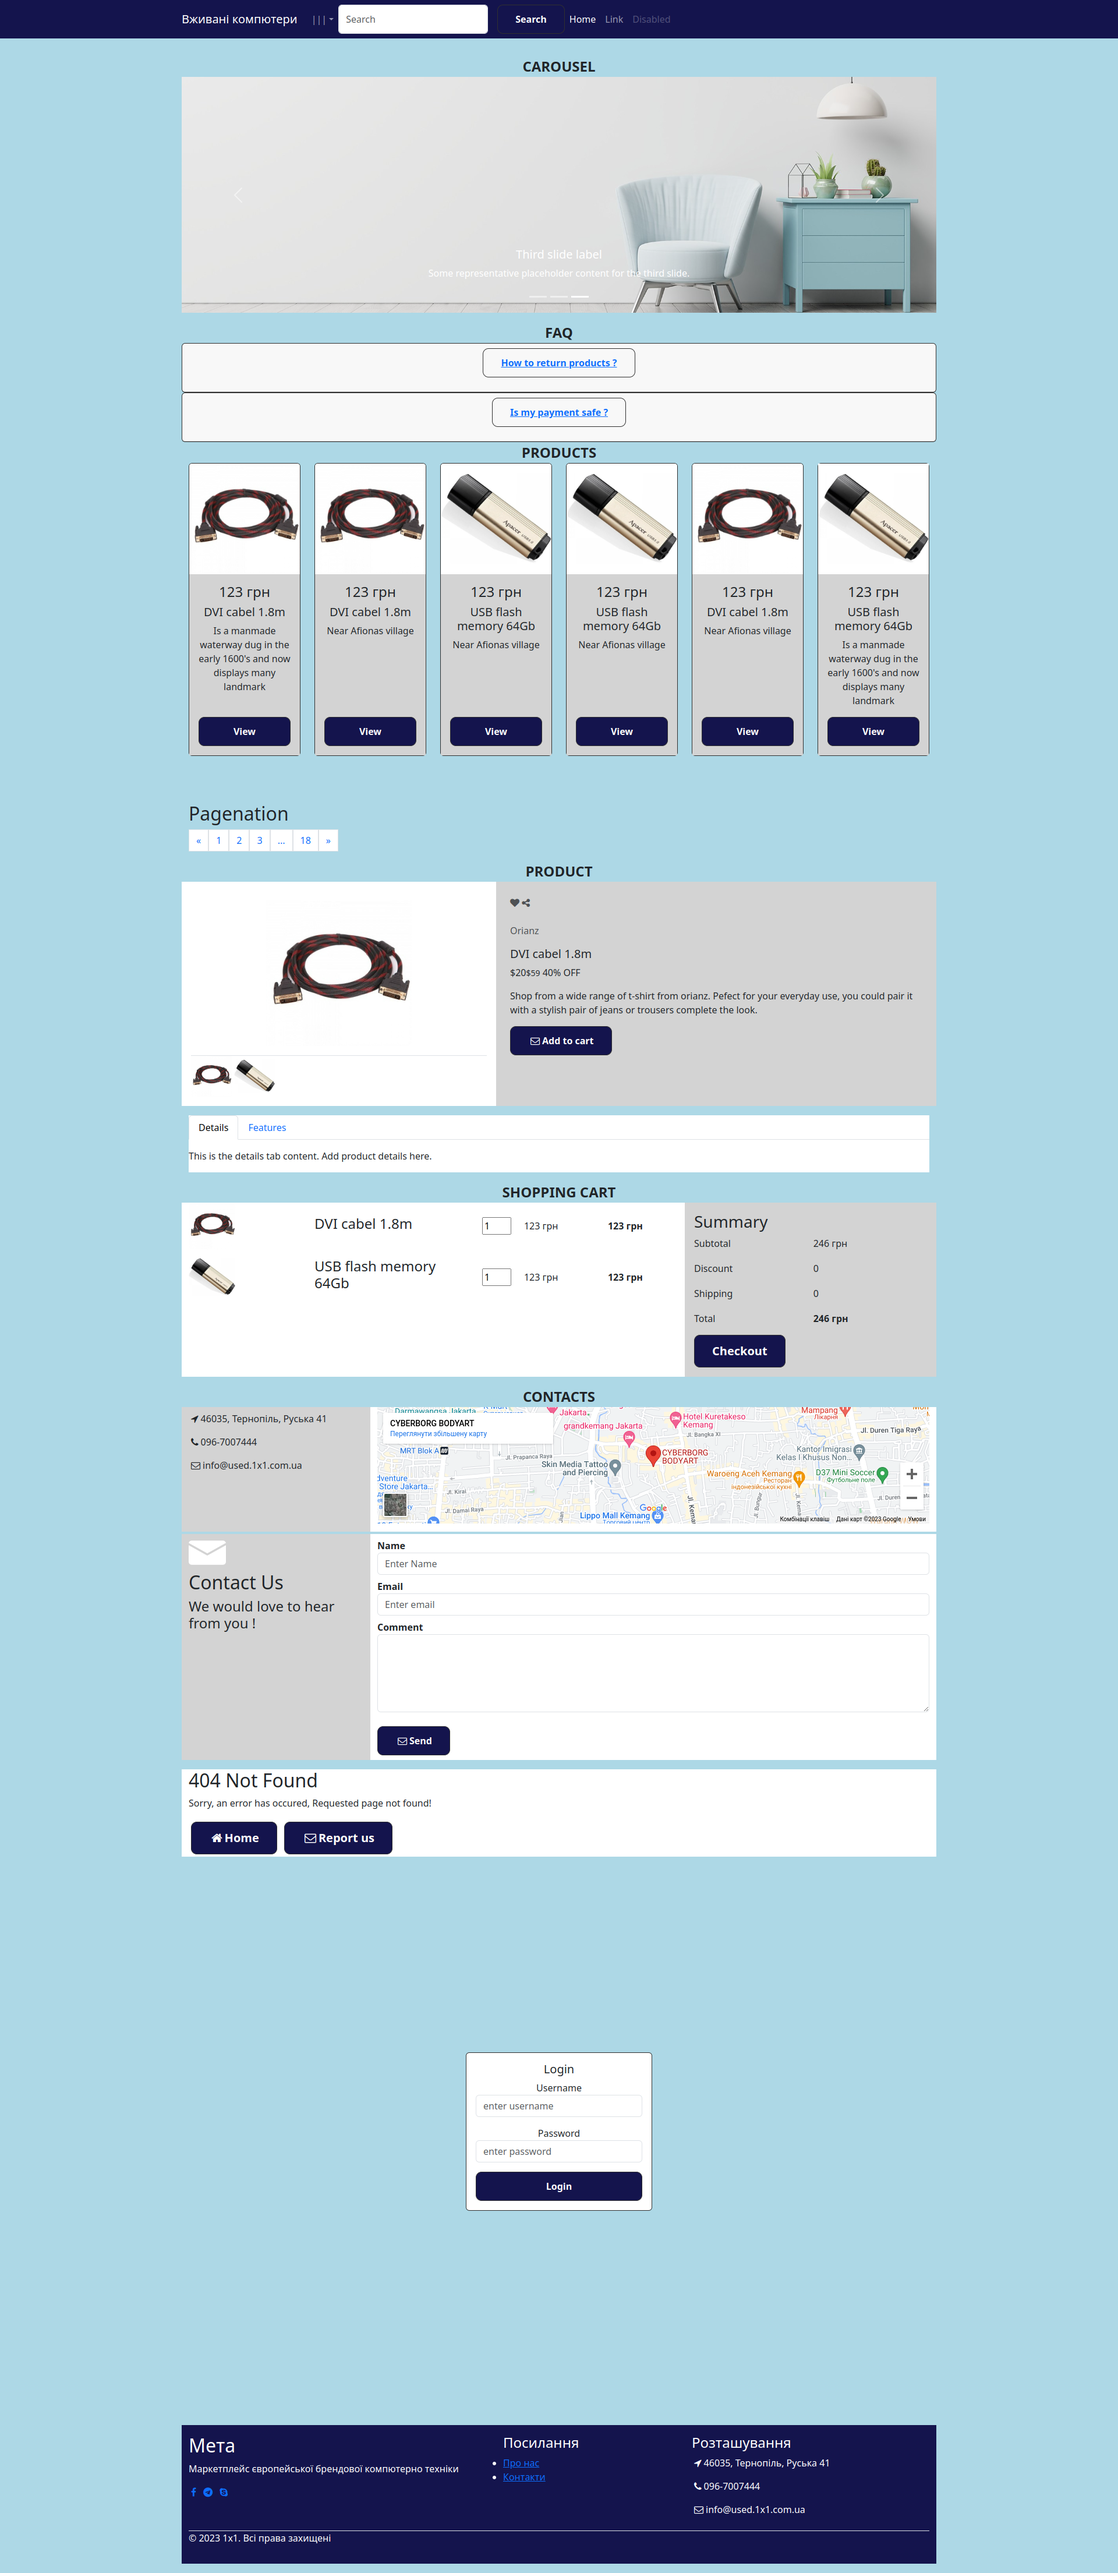
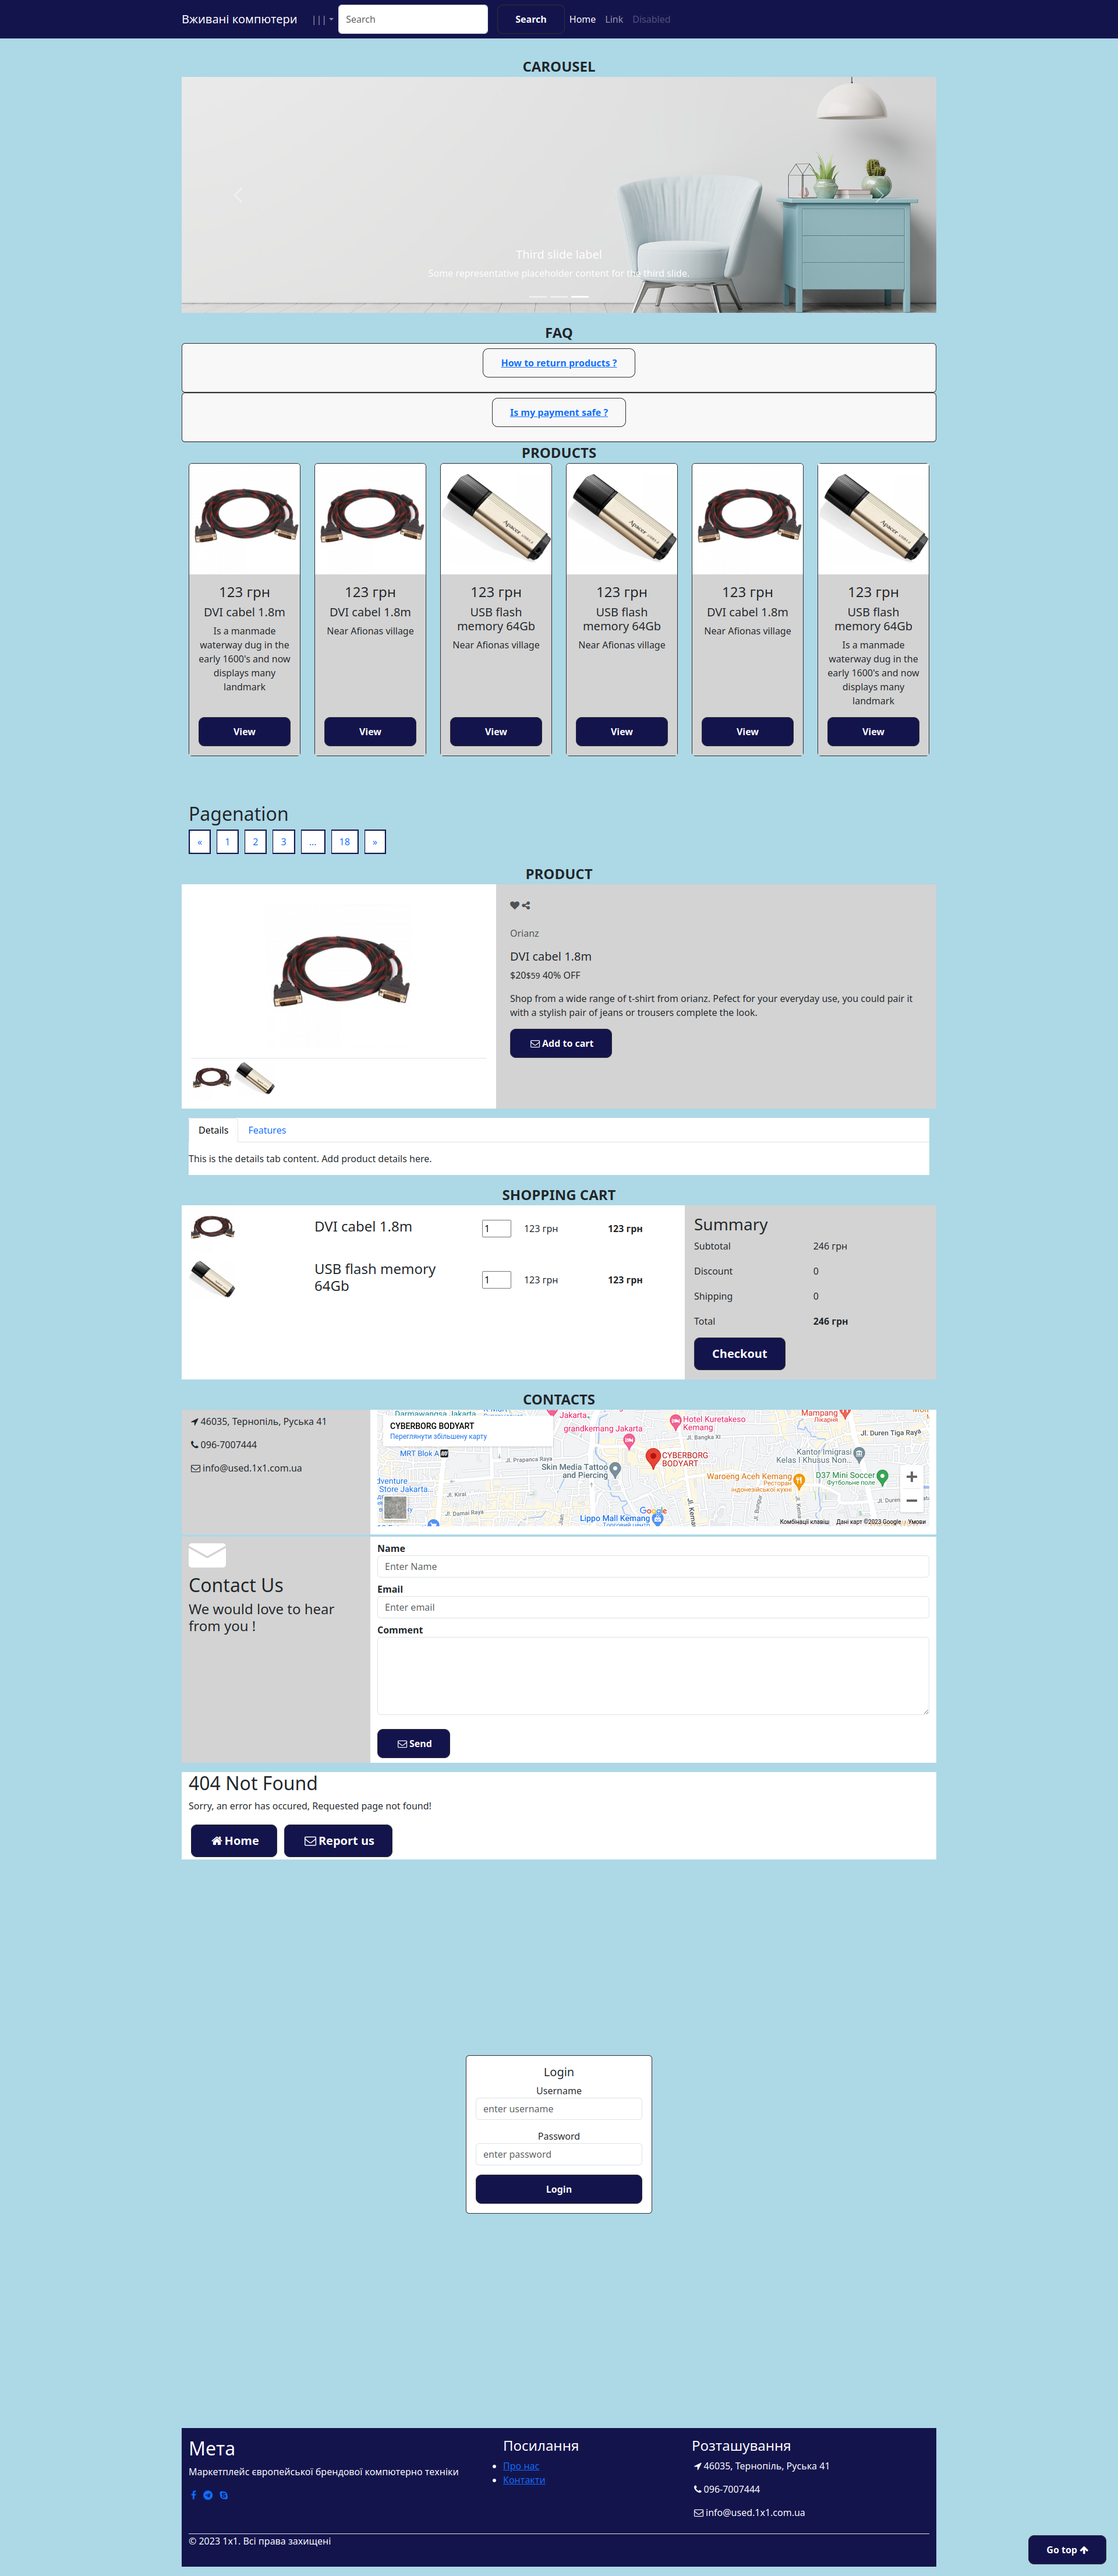
MyCommit

diff --git a/src/index.html b/src/index.html
@@ -2,16 +2,16 @@
 <!DOCTYPE html>
 <html lang="en">
   <head>
-    <title>Bootstrap Example</title>
+    <title>1x1 snippets</title>
     <meta charset="utf-8">
     <meta name="viewport" content="width=device-width, initial-scale=1">
 
-    <link rel="stylesheet" href="assets/vendor/css/bootstrap.min2.css">
+    <link rel="stylesheet" href="assets/vendor/css/bootstrap.min.css">
     <link rel="stylesheet" href="assets/vendor/css/font-awesome.min.css">
     <link rel="stylesheet" href="assets/css/style.css">
   </head>
 
-  <body style="height:1500px">
+  <body>
 
     <nav class="navbar navbar-expand-md navbar-dark fixed-top vFooter" id="main_navbar">
   <div class="container">
@@ -73,7 +73,6 @@
 
 <div class="container p-5">
 </div>
-
     <div class="container pb-3">
     <div class="vTitle">Carousel</div>
 
@@ -231,6 +230,21 @@
       </div>
   </div>
 </div>
+    <div class="container mt-5">
+  <h2>Pagenation</h2>
+  <nav>
+    <ul class="pagination">
+      <li class="page-item"><a class="page-link" href="#">&laquo;</a></li>
+      <li class="page-item"><a class="page-link" href="#">1</a></li>
+      <li class="page-item"><a class="page-link" href="#">2</a></li>
+      <li class="page-item"><a class="page-link" href="#">3</a></li>
+      <li class="page-item"><a class="page-link" href="#">...</a></li>
+      <li class="page-item"><a class="page-link" href="#">18</a></li>
+      <li class="page-item"><a class="page-link" href="#">&raquo;</a>
+      </li>
+    </ul>
+  </nav>
+</div>
 
     <div class="container pb-3">
     <div class="vTitle">Product</div>
@@ -302,7 +316,6 @@
     </div>
 
 </div>
-
     <div class="container pb-3">
     <div class="vTitle">Shopping Cart</div>
     <div class="row">
@@ -354,7 +367,6 @@
         </div>
     </div>
 </div>
-
     <div class="container pb-3">
     <div class="vTitle">Contacts</div>
 
@@ -400,7 +412,6 @@
 		</div>
 	</div>
 </div>
-
     <div class="container pb-3">
     <div class="row vBgMaster">
         <div class="col-md-12">
@@ -413,42 +424,66 @@
         </div>
     </div>
 </div>
-
-      <div class="mt-5 pt-3 pb-3 vFooter">
-    <div class="container">
-      <div class="row">
-        <div class="col-lg-5 col-xs-12">
-          <h2>Мета</h2>
-          <p>Маркетплейс європейської брендової компютерно техніки</p>
-          <p>
-            <a href="#" role="button"><i class="fa fa-facebook m-1"></i></a>
-            <a href="#" role="button"><i class="fa fa-telegram m-1"></i></a>
-            <a href="#" role="button"><i class="fa fa-skype m-1"></i></a>
-              </p>
+    <div class="container d-flex justify-content-center align-items-center min-vh-100">
+  <div class="card" style="width: 20em;">
+    <div class="card-body">
+      <h5>Login</h5>
+      <form>
+        <div class="mb-3">
+          <label>Username</label>
+          <input type="text" class="form-control" id="username" placeholder="enter username">
         </div>
-        <div class="col-lg-3 col-xs-12">
-          <h4 class="mt-lg-0 mt-sm-3">Посилання</h4>
-            <ul class="m-0 p-0">
-              <li><a href="#">Про нас</a></li>
-              <li><a href="#">Контакти</a></li>
-            </ul>
+        <div class="mb-3">
+          <label>Password</label>
+          <input type="password" class="form-control" id="password" placeholder="enter password">
         </div>
-        <div class="col-lg-4 col-xs-12">
-          <h4 class="mt-lg-0 mt-sm-4">Розташування</h4>
-          <p><i class="fa fa-location-arrow m-1"></i>46035, Тернопіль, Руська 41</p>
-          <p><i class="fa fa-phone m-1"></i>096-7007444</p>
-          <p><i class="fa fa-envelope-o m-1"></i>info@used.1x1.com.ua</p>
-        </div>
-      </div>
-
-      <div class="border-top mt-2">
-        <p>© 2023 1x1. Всі права захищені</p>
-      </div>
+        <button type="submit" class="btn btn-primary w-100">Login</button>
+      </form>
     </div>
   </div>
+</div>
+
+    <!-- #include file='xml/test.xml' -->
+    <button class="btn btn-primary" id="vBtn-GoTop" onclick="goToTop()">
+  Go top <i class="fa fa-arrow-up"></i>
+</button>
+
+    <div class="mt-5 pt-3 pb-3 vFooter">
+  <div class="container">
+    <div class="row">
+      <div class="col-lg-5 col-xs-12">
+        <h2>Мета</h2>
+        <p>Маркетплейс європейської брендової компютерно техніки</p>
+        <p>
+          <a href="#" role="button"><i class="fa fa-facebook m-1"></i></a>
+          <a href="#" role="button"><i class="fa fa-telegram m-1"></i></a>
+          <a href="#" role="button"><i class="fa fa-skype m-1"></i></a>
+            </p>
+      </div>
+      <div class="col-lg-3 col-xs-12">
+        <h4 class="mt-lg-0 mt-sm-3">Посилання</h4>
+          <ul class="m-0 p-0">
+            <li><a href="#">Про нас</a></li>
+            <li><a href="#">Контакти</a></li>
+          </ul>
+      </div>
+      <div class="col-lg-4 col-xs-12">
+        <h4 class="mt-lg-0 mt-sm-4">Розташування</h4>
+        <p><i class="fa fa-location-arrow m-1"></i>46035, Тернопіль, Руська 41</p>
+        <p><i class="fa fa-phone m-1"></i>096-7007444</p>
+        <p><i class="fa fa-envelope-o m-1"></i>info@used.1x1.com.ua</p>
+      </div>
+    </div>
+
+    <div class="border-top mt-2">
+      <p>© 2023 1x1. Всі права захищені</p>
+    </div>
+  </div>
+</div>
 
 
     <script src="assets/vendor/js/bootstrap.bundle.min.js"></script>
     <script src="assets/js/navbar.js"></script>
-   </body>
+    <script src="assets/js/gotop.js"></script>
+  </body>
 </html>

diff --git a/src/assets/js/gotop.js b/src/assets/js/gotop.js
@@ -1,0 +1,20 @@
+/*
+Created: 2023.11.13
+Author: Vladimir Vons <VladVons@gmail.com>
+License: GNU, see LICENSE for more details
+*/
+
+function goToTop() {
+  window.scrollTo({ top: 0, behavior: 'smooth' });
+}
+
+window.onscroll = function() {
+  var scrollPosition = document.documentElement.scrollTop || document.body.scrollTop;
+  var goTopBtn = document.getElementById('vBtn-GoTop');
+
+  if (scrollPosition > 100) {
+    goTopBtn.style.display = 'block';
+  } else {
+    goTopBtn.style.display = 'none';
+  }
+};

diff --git a/src/assets/js/cart.js b/src/assets/js/cart.js
@@ -1,7 +1,7 @@
 /*
-Copyright:   Vladimir Vons, UA
-Author:      Vladimir Vons <VladVons@gmail.com>
-Created:     2023.11.07
+Created: 2023.11.07
+Author: Vladimir Vons <VladVons@gmail.com>
+License: GNU, see LICENSE for more details
 */
 
 

diff --git a/src/assets/css/style.css b/src/assets/css/style.css
@@ -1,3 +1,5 @@
 @import url("common.css");
 @import url("navbar.css");
 @import url("cart.css");
+@import url("pagination.css");
+@import url("gotop.css");

diff --git a/src/assets/css/pagination.css b/src/assets/css/pagination.css
@@ -1,0 +1,4 @@
+.pagination .page-item {
+    margin-right: 10px;
+    border: 2px solid var(--colorBgFooter);
+}

diff --git a/src/assets/css/gotop.css b/src/assets/css/gotop.css
@@ -1,0 +1,6 @@
+#vBtn-GoTop {
+  position: fixed;
+  bottom: 20px;
+  right: 20px;
+  display: none;
+}
